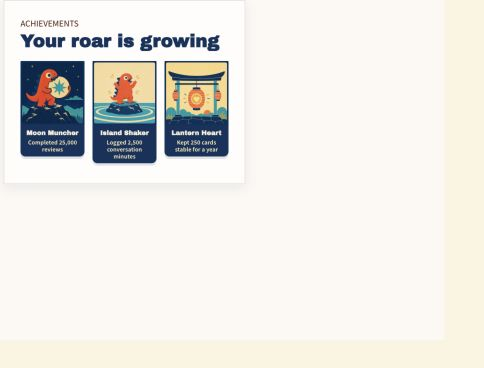
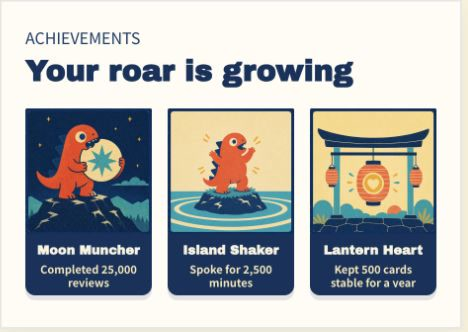
Keep achievement captions to two lines

diff --git a/client/src/styles/index.css b/client/src/styles/index.css
@@ -109,7 +109,7 @@
   }
 
   .achievement-badge-caption {
-    @apply relative z-10 -mt-px flex min-h-[62px] flex-col items-center justify-center px-2 py-2 text-center;
+    @apply relative z-10 -mt-px flex h-[62px] flex-col items-center justify-center px-2 py-2 text-center;
     background: var(--retro-ink-strong);
     color: var(--retro-paper);
   }
@@ -123,7 +123,7 @@
   }
 
   .achievement-badge-caption p {
-    @apply mt-1 text-[0.6875rem] font-bold leading-tight text-[#f7e7b7];
+    @apply mt-1 line-clamp-2 text-[0.6875rem] font-bold leading-tight text-[#f7e7b7];
   }
 
   .achievement-view-toggle {
